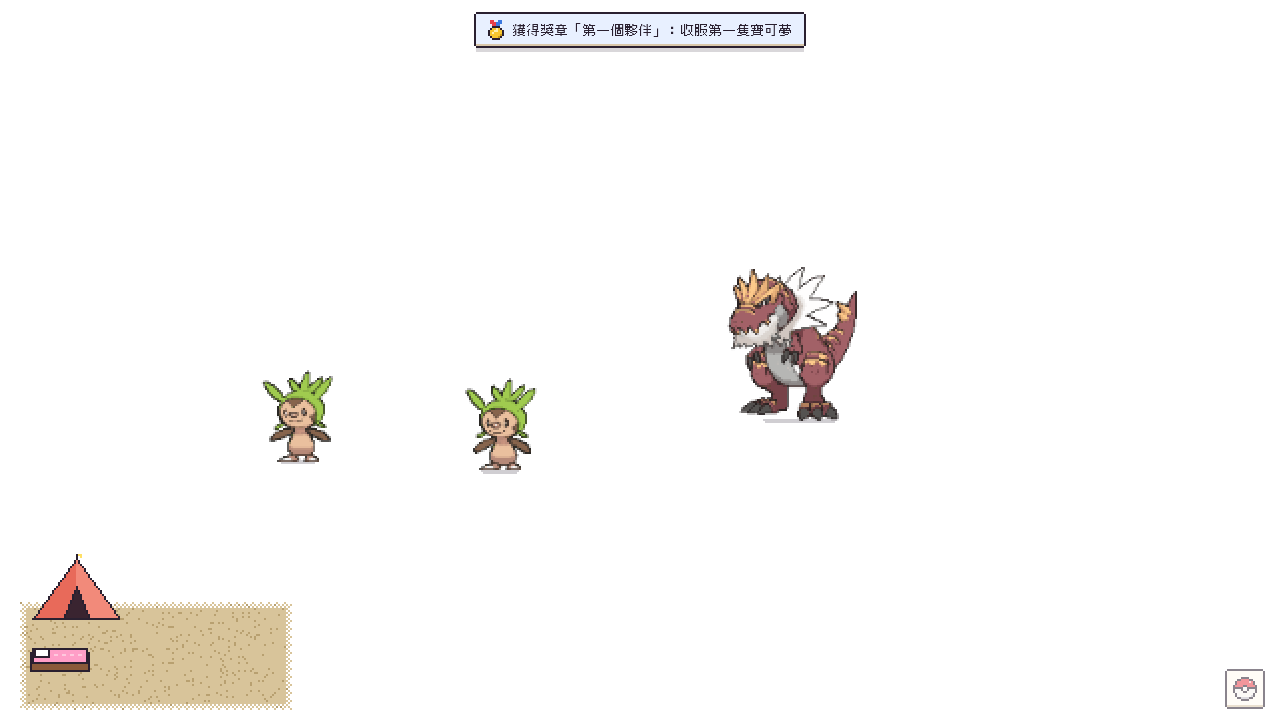
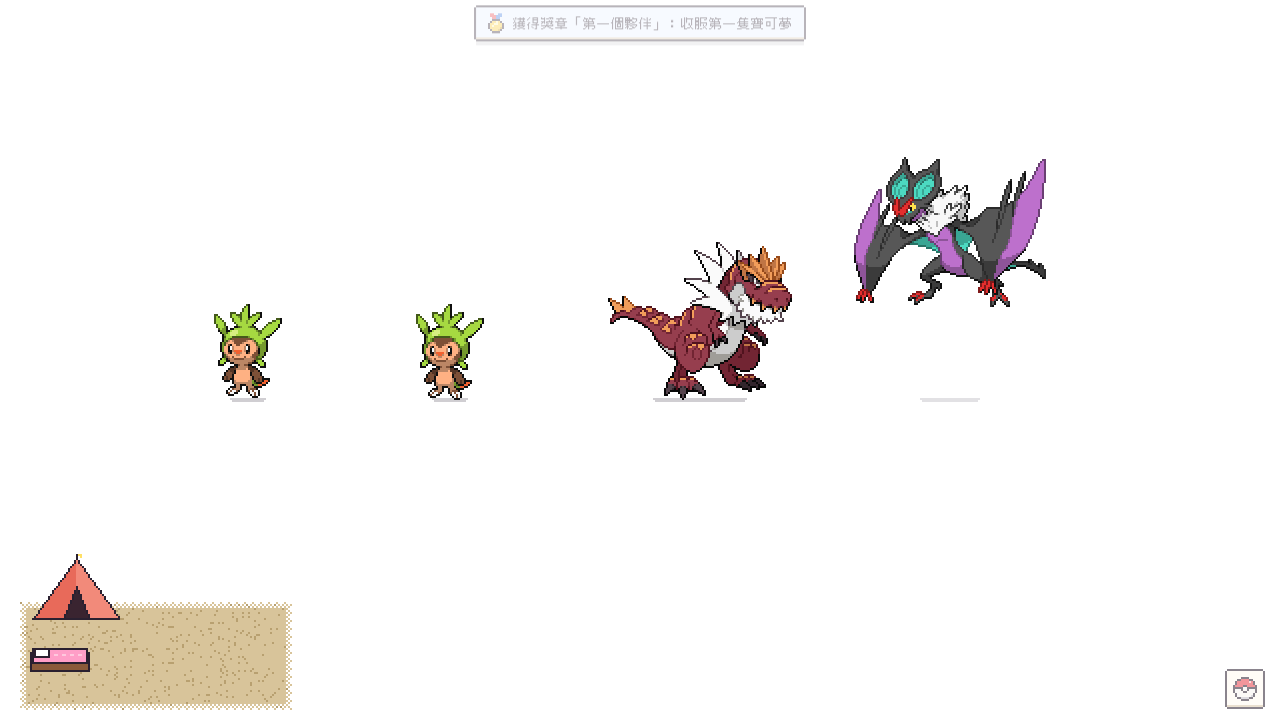
寶可夢維持 2 倍像素圖，用程式讓它動起來（不用 3D 動態圖）
- gfx/rig.js：自動找脖子（上半身最窄的一列）和腳（最下面分成兩段的地方），
  切成頭、身體、左腳、右腳，每塊只移動整數個像素（像原作早期兩張圖交替的動畫）
  - 待機：頭慢慢上下（呼吸）
  - 走路：左右腳輪流抬起往前跨、身體一上一下；會飄的、沒有腳的整隻輕輕跳
  - 移開留下的縫用相鄰那一列補（像脖子伸長、腿伸直），不會破洞；不會出現原圖沒有的顏色
- 有在移動就播走路、不然播待機；每一隻的節奏不同步
- 拿掉 Showdown 3D 動態圖的下載（main、preload、mock、測試伺服器）
- anim.cjs 改成測：沒有新顏色、大小、待機呼吸、走路換腳、不同步、點得到

Claude-Session: https://claude.ai/code/session_01FsTV8URmaD7nbGy2DHzd2C

diff --git a/src/renderer/gfx/sprites.js b/src/renderer/gfx/sprites.js
@@ -1,7 +1,10 @@
 // 寶可夢圖片：向 main process 要 PNG（有快取），裁掉透明邊、建立命中遮罩與剪影。
 import { makeCanvas, alphaMask, tint } from './pixel.js';
+import { buildRig } from './rig.js';
 import { fallbackSprite } from './art.js';
 import { speciesOfKey } from '../../core/forms.js';
+
+const RIGS = new WeakMap(); // 不會動的圖 → 做好的動畫
 
 function loadImage(src) {
   return new Promise((resolve, reject) => {
@@ -83,23 +86,18 @@ export class SpriteBank {
     return this.cache.get(k).asset;
   }
 
-  // ---------- 會動的圖 ----------
-  // 同步取得：已經解好就回傳動畫（所有同一種的共用），還沒就回傳 null 並開始載入（先用不會動的圖）
+  // ---------- 會動的圖（原本的像素圖切塊移動，見 gfx/rig.js）----------
+  // 同步取得：用現在拿得到的圖（還沒下載好就是替代圖）做成動畫；同一張圖只做一次，所有同一種的共用
   peekAnim(id, shiny = false) {
-    const k = `anim:${this.key(id, shiny)}`;
-    let entry = this.cache.get(k);
-    if (!entry) {
-      entry = { anim: null };
-      this.cache.set(k, entry);
-      if (this.api.getAnimSprite && typeof ImageDecoder !== 'undefined') {
-        // 先等不會動的圖：動畫要縮放成一樣高，桌面上的大小才不會變
-        entry.promise = this.get(id, shiny)
-          .then(still => (still.fallback ? null : this.api.getAnimSprite(String(id), shiny).then(url => (url ? decodeAnim(url, still.h) : null))))
-          .then(anim => (entry.anim = anim))
-          .catch(() => null);
-      }
+    const still = this.peek(id, shiny);
+    let anim = RIGS.get(still);
+    if (!anim) {
+      const rig = buildRig(still.canvas, { floats: this.dex.floats?.(speciesOfKey(id)) ?? false });
+      const wrap = set => ({ ...set, frames: set.frames.map(c => makeAsset(c)) });
+      anim = { sets: { idle: wrap(rig.sets.idle), walk: wrap(rig.sets.walk) }, w: rig.w, h: rig.h, info: rig.info };
+      RIGS.set(still, anim);
     }
-    return entry.anim;
+    return anim;
   }
 
   // 背景慢慢把整本圖鑑的圖抓下來，打開圖鑑時就不用等
@@ -108,88 +106,37 @@ export class SpriteBank {
   }
 }
 
-// ---------- 會動的圖：GIF → 一格一格的 canvas ----------
-const MAX_FRAMES = 120;
-
-function dataUrlBytes(url) {
-  const bin = atob(url.slice(url.indexOf(',') + 1));
-  const out = new Uint8Array(bin.length);
-  for (let i = 0; i < bin.length; i++) out[i] = bin.charCodeAt(i);
-  return out;
-}
-
-// 每一格用同一個裁切範圍（所有格的聯集），動的時候腳底才不會跳來跳去；
-// 再縮放成跟不會動的圖一樣高（Showdown 的圖大小跟原作比例一樣，有的會比現在大很多）
-export async function decodeAnim(url, targetH) {
-  const dec = new ImageDecoder({ data: dataUrlBytes(url), type: 'image/gif' });
-  await dec.tracks.ready;
-  const n = Math.min(MAX_FRAMES, dec.tracks.selectedTrack?.frameCount ?? 0);
-  if (n < 2) { dec.close(); return null; }
-  const raw = [];
-  let x0 = Infinity, y0 = Infinity, x1 = -1, y1 = -1;
-  for (let i = 0; i < n; i++) {
-    const { image } = await dec.decode({ frameIndex: i });
-    const c = makeCanvas(image.displayWidth, image.displayHeight);
-    const ctx = c.getContext('2d');
-    ctx.drawImage(image, 0, 0);
-    const dur = Math.max(0.02, (image.duration ?? 50000) / 1e6); // 微秒 → 秒
-    image.close();
-    const { data } = ctx.getImageData(0, 0, c.width, c.height);
-    for (let y = 0; y < c.height; y++) for (let x = 0; x < c.width; x++) {
-      if (data[(y * c.width + x) * 4 + 3] > 10) {
-        if (x < x0) x0 = x; if (x > x1) x1 = x;
-        if (y < y0) y0 = y; if (y > y1) y1 = y;
-      }
-    }
-    raw.push({ c, dur });
-  }
-  dec.close();
-  if (x1 < 0) return null;
-  const cw = x1 - x0 + 1, ch = y1 - y0 + 1;
-  const k = targetH / ch;
-  const scale = Math.abs(k - 1) < 0.08 ? 1 : k;
-  const w = Math.max(1, Math.round(cw * scale)), h = Math.max(1, Math.round(ch * scale));
-  const frames = raw.map(({ c, dur }) => {
-    const out = makeCanvas(w, h);
-    const ctx = out.getContext('2d');
-    ctx.imageSmoothingEnabled = scale !== 1;
-    ctx.imageSmoothingQuality = 'high';
-    ctx.drawImage(c, x0, y0, cw, ch, 0, 0, w, h);
-    return makeAsset(out);
-  });
-  const durs = raw.map(r => r.dur);
-  return { frames, durs, total: durs.reduce((a, b) => a + b, 0), w, h };
-}
-
 // 一隻寶可夢自己的播放位置（同一種的兩隻不會同步）；看起來跟一般的 asset 一樣
 export class AnimView {
   constructor(anim) {
     this.anim = anim;
     this.i = 0;
+    this.set = anim.sets.idle;
     this.w = anim.w;
     this.h = anim.h;
     this.fallback = false;
     this.animated = true;
   }
-  // t：這隻自己的動畫時間（秒）
-  at(t) {
-    const { durs, total } = this.anim;
+  // t：這隻自己的動畫時間（秒）；set：'idle' 待機、'walk' 走路
+  at(t, set = 'idle') {
+    const s = (this.set = this.anim.sets[set] ?? this.anim.sets.idle);
+    const { durs, total } = s;
     let r = ((t % total) + total) % total, i = 0;
     while (i < durs.length - 1 && r >= durs[i]) { r -= durs[i]; i++; }
     this.i = i;
     return this;
   }
-  get frame() { return this.anim.frames[this.i]; }
+  get frame() { return this.set.frames[this.i]; }
   get canvas() { return this.frame.canvas; }
   get mask() { return this.frame.mask; }
   get white() { return this.frame.white; }
   get dark() { return this.frame.dark; }
 }
 
-// 給有自己時間（t）的東西用：動畫載好了回傳它自己的 AnimView，不然回傳不會動的圖
-export function liveAsset(owner, sprites, key, shiny, t) {
+// 給有自己時間（t）的東西用：回傳它自己的 AnimView
+export function liveAsset(owner, sprites, key, shiny, t, set = 'idle') {
   const anim = sprites.peekAnim?.(key, shiny);
   if (!anim) return sprites.peek(key, shiny);
   if (owner.view?.anim !== anim) owner.view = new AnimView(anim);
-  return owner.view.at(t);
+  return owner.view.at(t, set);
 }

diff --git a/src/renderer/gfx/rig.js b/src/renderer/gfx/rig.js
@@ -1,0 +1,106 @@
+// 讓原本不會動的像素圖動起來（維持 2 倍像素，不用 3D 動態圖）。
+//
+// 做法跟原作早期的「兩張圖交替」一樣：把圖切成幾塊，每塊只移動整數個像素，所以像素永遠是方的、不會糊掉。
+//   1. 自動找「脖子」：上半身最窄的那一列 → 以上是頭（耳朵、角、頭髮）
+//   2. 自動找「腳」：最下面幾列分成兩段以上 → 那一段以下是腳，依重心分成左腳、右腳
+//   3. 待機：頭慢慢上下（呼吸）；走路：左右腳輪流抬起、身體跟著一上一下
+//   4. 移開留下的縫，用相鄰那一列補上（看起來像脖子伸長、腿伸直），不會破洞
+// 會飄的（沒有腳在地上）走路時整隻輕輕跳；沒找到腳的也一樣。
+import { makeCanvas } from './pixel.js';
+
+const PAD = 1; // 上、左、右各留 1 格，頭往上動時不會被切掉
+
+function analyze(canvas) {
+  const W = canvas.width, H = canvas.height;
+  const { data } = canvas.getContext('2d').getImageData(0, 0, W, H);
+  const on = (x, y) => data[(y * W + x) * 4 + 3] > 40;
+  const runs = y => {
+    const out = [];
+    let start = -1;
+    for (let x = 0; x <= W; x++) {
+      const v = x < W && on(x, y);
+      if (v && start < 0) start = x;
+      if (!v && start >= 0) { out.push([start, x - 1]); start = -1; }
+    }
+    return out;
+  };
+  const width = y => { const r = runs(y); return r.length ? r[r.length - 1][1] - r[0][0] + 1 : 0; };
+  // 腳：從最下面往上，連續「分成兩段以上、而且每段都不寬」的列
+  let hipY = H;
+  for (let y = H - 1; y >= Math.floor(H * 0.55); y--) {
+    const r = runs(y).filter(([a, b]) => b - a >= 0);
+    const legs = r.length >= 2 && r.every(([a, b]) => b - a + 1 <= W * 0.5);
+    if (legs) hipY = y;
+    else if (y < H - 3) break; // 最下面 3 列可以是一整片（腳掌），再上去就要分開
+  }
+  const hasLegs = hipY < H - 1 && hipY <= H - 2;
+  // 脖子：20%～55% 之間最窄的那一列（比最寬的窄很多才算）
+  let neckY = Math.round(H * 0.4), best = Infinity, maxW = 0;
+  for (let y = 0; y < H; y++) maxW = Math.max(maxW, width(y));
+  for (let y = Math.floor(H * 0.2); y <= Math.floor(H * 0.55); y++) {
+    const w = width(y);
+    if (w > 0 && w < best) { best = w; neckY = y; }
+  }
+  if (best > maxW * 0.8) neckY = Math.round(H * 0.4);
+  neckY = Math.max(2, Math.min(neckY, (hasLegs ? hipY : H) - 3));
+  // 左右腳的分界：腳那一段的重心
+  let sx = 0, n = 0;
+  for (let y = hipY; y < H; y++) for (let x = 0; x < W; x++) if (on(x, y)) { sx += x; n++; }
+  const legSplit = n ? Math.round(sx / n) : Math.round(W / 2);
+  return { W, H, neckY, hipY: hasLegs ? hipY : H, hasLegs, legSplit };
+}
+
+// 畫一張：head [dx, dy]、body dy、legL/legR [dx, dy] 各自的位移（整數像素，負的是往上／往前）
+function frame(src, a, { head = [0, 0], body = 0, legL = [0, 0], legR = [0, 0] }) {
+  const { W, H, neckY, hipY, legSplit } = a;
+  const c = makeCanvas(W + PAD * 2, H + PAD), g = c.getContext('2d');
+  g.imageSmoothingEnabled = false;
+  const put = (sx, sy, sw, sh, dx, dy) => { if (sw > 0 && sh > 0) g.drawImage(src, sx, sy, sw, sh, dx + PAD, dy + PAD, sw, sh); };
+  // 腳（左、右各自抬）；身體往上抬比腳多的時候，用腳最上面那一列把縫補起來
+  for (const [x0, x1, [dx, dy]] of [[0, legSplit, legL], [legSplit, W, legR]]) {
+    put(x0, hipY, x1 - x0, H - hipY, x0 + dx, hipY + dy);
+    for (let r = body; r < dy; r++) put(x0, hipY, x1 - x0, 1, x0 + dx, hipY + r);
+  }
+  // 身體
+  put(0, neckY, W, hipY - neckY, 0, neckY + body);
+  // 頭；往上抬比身體多的時候，用身體最上面那一列補（像脖子伸長）
+  const [hx, hy] = head;
+  for (let r = hy; r < body; r++) put(0, neckY, W, 1, 0, neckY + r);
+  put(0, 0, W, neckY, hx, hy);
+  return c;
+}
+
+const cycle = (src, a, poses, dur) => {
+  const frames = poses.map(p => frame(src, a, p));
+  const durs = poses.map(() => dur);
+  return { frames, durs, total: dur * poses.length };
+};
+
+// 回傳 { sets: { idle, walk }, w, h }；frames 是一般的 canvas（外面再包成 asset）
+export function buildRig(src, { floats = false } = {}) {
+  const a = analyze(src);
+  // 待機：頭慢慢抬起、放下（呼吸），偶爾往前一點
+  const idle = cycle(src, a, [
+    {}, {}, { head: [0, -1] }, { head: [0, -1] }, { head: [0, -1] }, { head: [0, -1] }, {}, {},
+  ], 0.2);
+  let walk;
+  if (a.hasLegs && !floats) {
+    // 左腳抬 → 身體上來 → 右腳抬 → 身體上來
+    // 圖是面向左邊的：往前＝x 減 1。抬起來的那隻腳往前跨，另一隻往後蹬
+    walk = cycle(src, a, [
+      { legL: [-1, -1], legR: [1, 0] },
+      { body: -1, head: [0, -1] },
+      { legL: [1, 0], legR: [-1, -1] },
+      { body: -1, head: [0, -1] },
+    ], 0.13);
+  } else {
+    // 沒有腳（或會飄）：整隻輕輕跳，頭晚一拍
+    walk = cycle(src, a, [
+      {},
+      { body: -1, legL: [0, -1], legR: [0, -1], head: [0, -1] },
+      { body: -1, legL: [0, -1], legR: [0, -1], head: [0, -1] },
+      { head: [0, -1] },
+    ], 0.13);
+  }
+  return { sets: { idle, walk }, w: src.width + PAD * 2, h: src.height + PAD, info: a };
+}

diff --git a/src/main/sprites.js b/src/main/sprites.js
@@ -7,7 +7,6 @@ import { isSpriteKey } from '../core/forms.js';
 
 const BASE = 'https://raw.githubusercontent.com/PokeAPI/sprites/master/sprites/pokemon';
 const MAX_PARALLEL = 4;
-const MAX_GIF = 2 * 1024 * 1024; // 最大的也才兩三百 KB，超過就當作壞掉
 
 export function createSpriteCache(dir) {
   const inflight = new Map();
@@ -39,24 +38,6 @@ export function createSpriteCache(dir) {
     return buf;
   }
 
-  // 會動的圖（Pokémon Showdown 的 GIF，跟 X／Y 同一套 3D 模型）。
-  // 沒有這張圖（404）就記一個空檔，之後不再下載；網路不通則下次再試
-  async function fetchGif(key, shiny) {
-    const file = path.join(dir, 'anim', shiny ? 'shiny' : 'normal', `${key}.gif`);
-    try {
-      const buf = await readFile(file);
-      return buf.length ? buf : null;
-    } catch { /* 還沒快取 */ }
-    const res = await net.fetch(`${BASE}/other/showdown${shiny ? '/shiny' : ''}/${key}.gif`);
-    if (res.status === 404) { await mkdir(path.dirname(file), { recursive: true }); await writeFile(file, Buffer.alloc(0)); return null; }
-    if (!res.ok) throw new Error(`anim ${key} ${res.status}`);
-    const buf = Buffer.from(await res.arrayBuffer());
-    if (buf.length > MAX_GIF || buf.subarray(0, 3).toString() !== 'GIF') throw new Error(`anim ${key} 不是 GIF`);
-    await mkdir(path.dirname(file), { recursive: true });
-    await writeFile(file, buf);
-    return buf;
-  }
-
   function cached(key, load, type) {
     if (!inflight.has(key)) {
       const p = enqueue(load)
@@ -79,11 +60,5 @@ export function createSpriteCache(dir) {
     return cached(`${spriteKey}:${shiny}`, () => fetchPng(spriteKey, shiny), 'image/png');
   }
 
-  // 會動的圖：data URL（image/gif）；沒有這張或下載失敗回傳 null（就用不會動的圖）
-  function getAnimSprite(spriteKey, shiny = false) {
-    if (!isSpriteKey(spriteKey)) return Promise.resolve(null);
-    return cached(`anim:${spriteKey}:${shiny}`, () => fetchGif(spriteKey, shiny), 'image/gif');
-  }
-
-  return { getSprite, getAnimSprite };
+  return { getSprite };
 }

diff --git a/src/renderer/scene/pet.js b/src/renderer/scene/pet.js
@@ -86,7 +86,11 @@ export class Pet {
   // 圖片依形態而不同（藍花的花蓓蓓、超級蒂安希…）；battleForm 是對戰中暫時的形態，不存檔
   get spriteKey() { return spriteKey(this.mon.species, this.battleForm ?? this.mon.form); }
   // 會動的圖載好了就用它（每一隻有自己的播放位置），還沒就先用不會動的圖
-  get asset() { return liveAsset(this, this.stage.sprites, this.spriteKey, this.mon.shiny, this.animT); }
+  // 這一幀有在移動就播走路的動作（左右腳輪流抬），不然播待機（呼吸）
+  get asset() {
+    const lp = this.lastPos, moving = lp && Math.hypot(this.x - lp.x, this.gy - lp.y) > 0.25 * this.S;
+    return liveAsset(this, this.stage.sprites, this.spriteKey, this.mon.shiny, this.animT, moving ? 'walk' : 'idle');
+  }
   get S() { return this.stage.S; }
   get types() { return this.stage.dex.get(this.mon.species).types; }
   get act() { return ACTIONS[this.state] ?? HABIT_ACTIONS[this.state] ?? MOVE_ACTIONS[this.state] ?? SOCIAL_ACTIONS[this.state] ?? PERCH_ACTIONS[this.state] ?? CURSOR_ACTIONS[this.state] ?? TRAVEL_ACTIONS[this.state]; }

diff --git a/src/main/main.js b/src/main/main.js
@@ -183,14 +183,13 @@ function buildTray() {
 
 app.whenReady().then(async () => {
   const store = createStore(app.getPath('userData'));
-  const { getSprite, getAnimSprite } = createSpriteCache(path.join(app.getPath('userData'), 'sprites'));
+  const { getSprite } = createSpriteCache(path.join(app.getPath('userData'), 'sprites'));
   const dexData = JSON.parse(await readFile(path.join(here, '../../data/kalos.json'), 'utf8'));
 
   ipcMain.handle('data:dex', () => dexData);
   ipcMain.handle('save:load', () => store.load());
   ipcMain.handle('save:write', (_e, data) => store.save(data));
   ipcMain.handle('sprite:get', (_e, key, shiny) => getSprite(String(key), Boolean(shiny)));
-  ipcMain.handle('sprite:anim', (_e, key, shiny) => getAnimSprite(String(key), Boolean(shiny)));
   const getTrainer = createTrainerCache(path.join(app.getPath('userData'), 'trainers'));
   ipcMain.handle('trainer:get', (_e, name) => getTrainer(String(name)));
   ipcMain.handle('signals:get', () => signals?.snapshot());

diff --git a/src/renderer/mock-api.js b/src/renderer/mock-api.js
@@ -26,15 +26,6 @@ export function createMockApi() {
         return await new Promise(r => { const fr = new FileReader(); fr.onload = () => r(fr.result); fr.readAsDataURL(blob); });
       } catch { return null; }
     },
-    async getAnimSprite(id, shiny) {
-      if (!isSpriteKey(id) || params.get('anim') === '0') return null;
-      try {
-        const res = await fetch(`${spriteBase}/other/showdown${shiny ? '/shiny' : ''}/${id}.gif`);
-        if (!res.ok) return null;
-        const blob = await res.blob();
-        return await new Promise(r => { const fr = new FileReader(); fr.onload = () => r(fr.result); fr.readAsDataURL(blob); });
-      } catch { return null; }
-    },
     // 故事的訓練家圖：測試環境連不到 Showdown，只有 ?trainers=<網址> 時才去抓
     async getTrainerSprite(name) {
       const base = params.get('trainers');

diff --git a/src/renderer/scene/wild.js b/src/renderer/scene/wild.js
@@ -215,7 +215,7 @@ export class WildMon {
     if (encounter.shiny) { stage.fx.sparkles(this.x, this.y - 30 * S, S, 16, 40); stage.fx.stars(this.x, this.y - 30 * S, S, 8); }
   }
 
-  get asset() { return liveAsset(this, this.stage.sprites, spriteKey(this.enc.speciesId, this.enc.form), this.enc.shiny, this.t); }
+  get asset() { return liveAsset(this, this.stage.sprites, spriteKey(this.enc.speciesId, this.enc.form), this.enc.shiny, this.t, this.state === 'walkIn' ? 'walk' : 'idle'); }
   restY() { return this.groundY - this.alt * this.stage.S; }
   set(state) { this.state = state; this.stateT = 0; }
 
